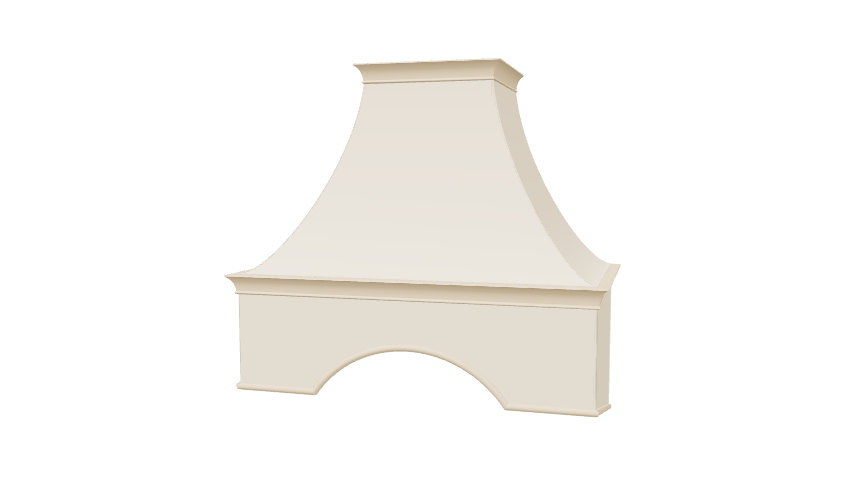
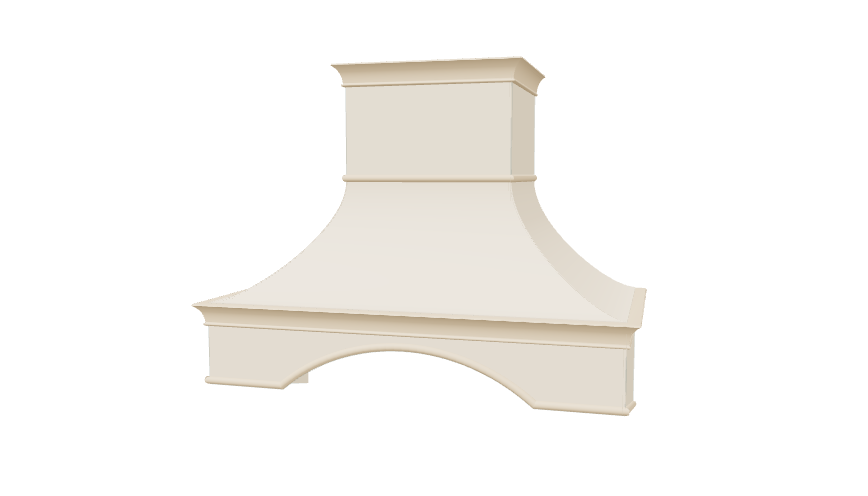
Match homepage 3D thumbnails to case photos

Changed region(s): [[0.2177, 0.3024, 0.7465, 0.8468], [0.3733, 0.0907, 0.6221, 0.3024]]

diff --git a/app.js b/app.js
@@ -1,5 +1,5 @@
 /* © 2026 栗子的家 · 定制装饰罩 | All rights reserved. */
-const w={basePrice:480,trimPrices:{none:0,single:35,corner:45},wechatId:"Jonathan_Ge",qrImage:"assets/pay-qr.jpg",serviceQrImage:"assets/service-qr.jpg",orderEndpoint:location.hostname.endsWith("github.io")?"https://yyj-h5-d5gaovp196680d93f-1258663924.ap-shanghai.app.tcloudbase.com/api/orders":"/api/orders",orderLookupEndpoint:""},ne="./preview.js?v=2e9b7c4bbb",N=[{id:"cloud",name:"\u4E91\u6735\u5F27",tone:"\u6696\u7C73",desc:"\u949F\u5F62\u5F27\u7EBF \xB7 \u5BBD\u5E95\u6536\u8FB9",curve:"concave",start:"middle",dims:{hoodWidth:1e3,hoodDepth:500,rearHeight:390,frontHeight:255,chimneyWidth:500,chimneyDepth:330,chimneyHeight:680},trims:{top:"corner",start:"single",hoodTop:"corner",hoodBottom:"single"},notch:{shape:"rounded",width:300,height:60,offset:0}},{id:"tall",name:"\u9AD8\u7A84\u5F27",tone:"\u6696\u7C73",desc:"\u9AD8\u7A84\u957F\u5F27 \xB7 \u62F1\u5F62\u5F00\u53E3",curve:"concave",start:"top",dims:{hoodWidth:800,hoodDepth:470,rearHeight:380,frontHeight:260,chimneyWidth:280,chimneyDepth:300,chimneyHeight:500},trims:{top:"corner",start:"none",hoodTop:"single",hoodBottom:"single"},notch:{shape:"arch",width:340,height:90,offset:0}},{id:"line",name:"\u76F4\u8FB9\u5854",tone:"\u6696\u7C73",desc:"\u76F4\u8FB9\u659C\u6536 \xB7 \u65B9\u51A0\u538B\u9876",curve:"flat",start:"middle",dims:{hoodWidth:940,hoodDepth:500,rearHeight:330,frontHeight:220,chimneyWidth:480,chimneyDepth:330,chimneyHeight:620},trims:{top:"corner",start:"single",hoodTop:"single",hoodBottom:"single"},notch:{shape:"trapezoid",width:340,height:60,offset:0}},{id:"arch",name:"\u5706\u9876\u62F1",tone:"\u6696\u7C73",desc:"\u957F\u5F27\u5916\u6269 \xB7 \u5927\u5706\u62F1\u53E3",curve:"concave",start:"top",dims:{hoodWidth:840,hoodDepth:480,rearHeight:400,frontHeight:280,chimneyWidth:300,chimneyDepth:310,chimneyHeight:520},trims:{top:"corner",start:"none",hoodTop:"corner",hoodBottom:"single"},notch:{shape:"arch",width:460,height:120,offset:0}},{id:"crown",name:"\u5BBD\u65B9\u51A0",tone:"\u6696\u7C73",desc:"\u5BBD\u80A9\u76F4\u8FB9 \xB7 \u9636\u68AF\u65B9\u51A0",curve:"flat",start:"middle",dims:{hoodWidth:1e3,hoodDepth:510,rearHeight:390,frontHeight:260,chimneyWidth:440,chimneyDepth:330,chimneyHeight:560},trims:{top:"corner",start:"none",hoodTop:"corner",hoodBottom:"single"},notch:{shape:"trapezoid",width:320,height:90,offset:0}},{id:"float",name:"\u6781\u7B80\u65B9\u76D2",tone:"\u6696\u7C73",desc:"\u65B9\u76D2\u76F4\u8FB9 \xB7 \u65E0\u5F27\u4FA7\u9762",curve:"none",start:"middle",dims:{hoodWidth:1e3,hoodDepth:500,rearHeight:300,frontHeight:220,chimneyWidth:600,chimneyDepth:380,chimneyHeight:680},trims:{top:"corner",start:"none",hoodTop:"single",hoodBottom:"single"},notch:{enabled:!1,shape:"rect",width:260,height:50,offset:90}}],$=[{styleId:"cloud",name:"\u4E91\u6735\u5F27",image:"assets/styles/cloud.jpg",model:"assets/models/cloud.png",fit:"cover"},{styleId:"line",name:"\u76F4\u8FB9\u5854",image:"assets/styles/line.jpg",model:"assets/models/line.png",fit:"cover"},{styleId:"tall",name:"\u9AD8\u7A84\u5F27",image:"assets/styles/tall.jpg",model:"assets/models/tall.png",fit:"cover"},{styleId:"arch",name:"\u5706\u9876\u62F1",image:"assets/styles/arch.jpg",model:"assets/models/arch.png",fit:"cover"},{styleId:"crown",name:"\u5BBD\u65B9\u51A0",image:"assets/styles/crown.jpg",model:"assets/models/crown.png",fit:"cover"},{styleId:"float",name:"\u6781\u7B80\u65B9\u76D2",image:"assets/styles/float.jpg",model:"assets/models/float.png",fit:"cover"}];let zt="";async function Pn(){try{const t=new AbortController,e=window.setTimeout(()=>t.abort(),1500),n=await fetch(`content.json?v=${Date.now()}`,{cache:"no-store",signal:t.signal});if(clearTimeout(e),!n.ok)return;const i=await n.json();if(i&&i.wechatId&&(w.wechatId=String(i.wechatId)),i&&i.qrImage&&(w.qrImage=String(i.qrImage)),i&&i.serviceQrImage&&(w.serviceQrImage=String(i.serviceQrImage)),i&&Number.isFinite(Number(i.basePrice))&&(w.basePrice=Number(i.basePrice)),i&&typeof i.orderLookupEndpoint=="string"&&(w.orderLookupEndpoint=i.orderLookupEndpoint),i&&i.trimPrices&&typeof i.trimPrices=="object"&&Object.keys(w.trimPrices).forEach(r=>{Number.isFinite(Number(i.trimPrices[r]))&&(w.trimPrices[r]=Number(i.trimPrices[r]))}),i&&Array.isArray(i.cases)&&i.cases.length){const r=i.cases.filter(o=>o&&o.styleId&&o.image).map(o=>({styleId:String(o.styleId),name:String(o.name||""),image:String(o.image),model:o.model?String(o.model):"",fit:o.fit==="cover"?"cover":"contain"}));r.length&&($.length=0,$.push(...r))}i&&i.home3dImage&&(zt=String(i.home3dImage))}catch{}}const V=[{id:"none",name:"\u65E0\u88C5\u9970\u6761",desc:"\u5E72\u51C0\u5229\u843D",price:0},{id:"single",name:"\u534A\u5706\u7EBF\u6761",desc:"\u534A\u5706\u7EC6\u8FB9",price:35},{id:"corner",name:"\u9876\u89D2\u6761",desc:"\u76F4\u89D2\u6536\u8FB9",price:45}],ht=[{key:"top",name:"\u70DF\u9053\u9876\u90E8",hint:"\u70DF\u9053\u6700\u4E0A\u65B9\u4E00\u5708"},{key:"start",name:"\u66F2\u9762\u8D77\u70B9",hint:"\u4E0A\u7AD6\u4E0E\u66F2\u9762\u7684\u63A5\u7F1D"},{key:"hoodTop",name:"\u4E0B\u6A2A\u9876\u8FB9",hint:"\u4E0B\u6A2A\u4E0A\u6CBF"},{key:"hoodBottom",name:"\u4E0B\u6A2A\u5E95\u8FB9",hint:"\u4E0B\u6A2A\u4E0B\u6CBF"}],H={chimneyWidth:{label:"\u70DF\u9053\u5BBD",hint:"\u5DE6\u53F3\u5404\u7559 5mm",min:220,max:600,step:10},chimneyDepth:{label:"\u70DF\u9053\u6DF1",hint:"\u4ECE\u5899\u5230\u524D\u5916\u6CBF",min:180,max:500,step:10},chimneyHeight:{label:"\u4E0A\u7AD6\u9AD8",hint:"\u4E0B\u6A2A\u4EE5\u4E0A",min:300,max:1e3,step:10},hoodWidth:{label:"\u70DF\u673A\u5BBD",hint:"\u91CF\u6700\u5916\u6CBF",min:600,max:1100,step:10},hoodDepth:{label:"\u70DF\u673A\u6DF1",hint:"\u4ECE\u5899\u5230\u6700\u5916\u6CBF",min:350,max:650,step:10},rearHeight:{label:"\u9760\u5899\u4FA7\u9AD8",hint:"\u8D34\u5899\u90A3\u4E00\u4FA7",min:220,max:520,step:10},frontHeight:{label:"\u524D\u4FA7\u9AD8",hint:"\u671D\u5916\u8FD9\u4E00\u4FA7",min:120,max:520,step:10},notchWidth:{label:"\u5F00\u53E3\u5BBD",hint:"\u8C41\u53E3\u5DE6\u53F3\u5BBD\u5EA6",min:120,max:620,step:10},notchHeight:{label:"\u5F00\u53E3\u9AD8",hint:"\u4ECE\u5E95\u8FB9\u5F80\u4E0A",min:30,max:220,step:10}},Ae=[{id:"rect",label:"\u77E9\u5F62"},{id:"rounded",label:"\u5706\u89D2\u77E9\u5F62"},{id:"arch",label:"\u5706\u5F27"},{id:"trapezoid",label:"\u68AF\u5F62"}],Ne={chimneyWidth:"front",chimneyDepth:"side",chimneyHeight:"chimneyHeight",hoodWidth:"hoodWidth",hoodDepth:"hoodDepth",rearHeight:"rearHeight",frontHeight:"frontHeight",notchWidth:"notch",notchHeight:"notch"},O={styleId:"cloud",hoodWidth:800,hoodDepth:450,rearHeight:380,frontHeight:240,chimneyWidth:320,chimneyDepth:280,chimneyHeight:500,shimHeight:0,surfaceType:"concave",surfaceStart:"middle",notchEnabled:!0,notchShape:"arch",notchWidth:420,notchHeight:80,notchOffset:0,trimStyles:{top:"corner",start:"single",hoodTop:"single",hoodBottom:"single"}},Fe=[{id:"concave",label:"\u5411\u5185\u5F2F\u66F2"},{id:"convex",label:"\u5411\u5916\u5F2F\u66F2"},{id:"flat",label:"\u4E0D\u5F2F\u66F2"},{id:"none",label:"\u65E0\u4FA7\u9762"}];function ie(t){return t==="none"?[{id:"middle",label:"\u4E2D\u95F4"}]:t==="convex"?[{id:"lower",label:"\u4E2D\u95F4\u504F\u4E0B"},{id:"lowest",label:"\u4E2D\u95F4\u66F4\u504F\u4E0B"}]:t==="flat"?[{id:"middle",label:"\u4E2D\u95F4"},{id:"top",label:"\u9876\u90E8"}]:[{id:"middle",label:"\u4E2D\u95F4"},{id:"top",label:"\u4E0A\u9762"}]}function Wn(t=a.surfaceType,e=a.surfaceStart){return e==="lowest"?"\u4E2D\u95F4\u66F4\u504F\u4E0B":e==="lower"?"\u4E2D\u95F4\u504F\u4E0B":e==="top"?t==="flat"?"\u9876\u90E8":"\u4E0A\u9762":"\u4E2D\u95F4"}const F={customer:"yyj_customer",orders:"yyj_orders",pending:"yyj_pending_orders",lastOrder:"yyj_last_order",pendingOrder:"yyj_pending_order"},s=(t,e=document)=>e.querySelector(t),T=(t,e=document)=>Array.from(e.querySelectorAll(t)),S=(t,e,n)=>Math.min(n,Math.max(e,Number(t)||0)),L=t=>`\xA5${Number(t).toLocaleString("zh-CN")}`,x=t=>String(t??"").replace(/[&<>"']/g,e=>({"&":"&amp;","<":"&lt;",">":"&gt;",'"':"&quot;","'":"&#39;"})[e]);function re(t,e){try{const n=localStorage.getItem(t);return n?JSON.parse(n):e}catch{return e}}function ut(t,e){try{localStorage.setItem(t,JSON.stringify(e))}catch{}}function ar(t){try{localStorage.removeItem(t)}catch{}}let An=0;function xt(t,e){const n=parseInt(t.slice(1),16),i=n>>16&255,r=n>>8&255,o=n&255,d=e<0?0:255,c=Math.abs(e)/100,u=m=>Math.round((d-m)*c+m).toString(16).padStart(2,"0");return`#${u(i)}${u(r)}${u(o)}`}const Nn={concave:{l1:[132,140],l2:[86,150],r1:[234,150],r2:[188,140]},convex:{l1:[116,124],l2:[52,136],r1:[268,136],r2:[204,124]}};function je(t,{transparent:e=!1}={}){const n=`hood${++An}`,i=t.color,r=t.bg,o=xt(i,14),d=xt(i,-10),c=xt(i,-25),u="#d8be9e",m=Nn[t.curve];let h,g;if(t.curve==="flat")h="M132 112 L52 150 H268 L188 112 Z",g="M188 112 L268 150 L288 142 L204 103 Z";else{const{l1:f,l2:b,r1:v,r2:k}=m;h=`M132 112 C${f[0]} ${f[1]} ${b[0]} ${b[1]} 52 150 H268 C${v[0]} ${v[1]} ${k[0]} ${k[1]} 188 112 Z`,g=`M188 112 C${k[0]} ${k[1]} ${v[0]} ${v[1]} 268 150 L288 142 C${v[0]-18} ${v[1]-8} ${k[0]+8} ${k[1]-8} 204 103 Z`}const y=["M132 38 H188 L204 31","M132 112 H188","M52 150 H268 L288 142","M52 196 H268 L288 188"];let p="";if(t.trim==="single"||t.trim==="corner"){const f=t.trim==="corner"?6:4;p=y.map(b=>`<path d="${b}" fill="none" stroke="${u}" stroke-width="${f}" stroke-linecap="round" stroke-linejoin="round"/>`).join(""),t.trim==="corner"&&(p+=y.map(b=>`<path d="${b}" fill="none" stroke="#c9b08d" stroke-width="1.3" opacity=".3"/>`).join(""))}else t.trim==="double"&&(p=y.map(f=>`<path d="${f}" fill="none" stroke="${u}" stroke-width="2.4" stroke-linecap="round" stroke-linejoin="round"/>`).join(""),p+=y.map(f=>`<path d="${f}" transform="translate(0 5)" fill="none" stroke="${u}" stroke-width="2.4" stroke-linecap="round" stroke-linejoin="round"/>`).join(""));return`<svg viewBox="0 0 320 240" role="img" aria-label="${x(t.name)}${x(t.tone)}\u70DF\u673A\u7F69\u793A\u610F">
+const w={basePrice:480,trimPrices:{none:0,single:35,corner:45},wechatId:"Jonathan_Ge",qrImage:"assets/pay-qr.jpg",serviceQrImage:"assets/service-qr.jpg",orderEndpoint:location.hostname.endsWith("github.io")?"https://yyj-h5-d5gaovp196680d93f-1258663924.ap-shanghai.app.tcloudbase.com/api/orders":"/api/orders",orderLookupEndpoint:""},ne="./preview.js?v=2e9b7c4bbb",N=[{id:"cloud",name:"\u4E91\u6735\u5F27",tone:"\u6696\u7C73",desc:"\u949F\u5F62\u5F27\u7EBF \xB7 \u5BBD\u5E95\u6536\u8FB9",curve:"concave",start:"middle",dims:{hoodWidth:1e3,hoodDepth:500,rearHeight:335,frontHeight:200,chimneyWidth:430,chimneyDepth:330,chimneyHeight:790},trims:{top:"corner",start:"single",hoodTop:"corner",hoodBottom:"single"},notch:{shape:"rounded",width:300,height:60,offset:0}},{id:"tall",name:"\u9AD8\u7A84\u5F27",tone:"\u6696\u7C73",desc:"\u9AD8\u7A84\u957F\u5F27 \xB7 \u62F1\u5F62\u5F00\u53E3",curve:"concave",start:"middle",dims:{hoodWidth:800,hoodDepth:470,rearHeight:264,frontHeight:144,chimneyWidth:325,chimneyDepth:300,chimneyHeight:608},trims:{top:"corner",start:"single",hoodTop:"corner",hoodBottom:"single"},notch:{shape:"arch",width:340,height:95,offset:0}},{id:"line",name:"\u76F4\u8FB9\u5854",tone:"\u6696\u7C73",desc:"\u76F4\u8FB9\u659C\u6536 \xB7 \u65B9\u51A0\u538B\u9876",curve:"flat",start:"middle",dims:{hoodWidth:940,hoodDepth:500,rearHeight:360,frontHeight:250,chimneyWidth:460,chimneyDepth:330,chimneyHeight:634},trims:{top:"corner",start:"single",hoodTop:"corner",hoodBottom:"single"},notch:{shape:"trapezoid",width:420,height:60,offset:0}},{id:"arch",name:"\u5706\u9876\u62F1",tone:"\u6696\u7C73",desc:"\u957F\u5F27\u5916\u6269 \xB7 \u5927\u5706\u62F1\u53E3",curve:"concave",start:"middle",dims:{hoodWidth:840,hoodDepth:480,rearHeight:288,frontHeight:168,chimneyWidth:345,chimneyDepth:310,chimneyHeight:512},trims:{top:"corner",start:"single",hoodTop:"corner",hoodBottom:"single"},notch:{shape:"arch",width:520,height:95,offset:0}},{id:"crown",name:"\u5BBD\u65B9\u51A0",tone:"\u6696\u7C73",desc:"\u5BBD\u80A9\u76F4\u8FB9 \xB7 \u9636\u68AF\u65B9\u51A0",curve:"flat",start:"middle",dims:{hoodWidth:1e3,hoodDepth:510,rearHeight:290,frontHeight:160,chimneyWidth:520,chimneyDepth:330,chimneyHeight:700},trims:{top:"corner",start:"single",hoodTop:"corner",hoodBottom:"single"},notch:{shape:"trapezoid",width:430,height:65,offset:0}},{id:"float",name:"\u6781\u7B80\u65B9\u76D2",tone:"\u6696\u7C73",desc:"\u65B9\u76D2\u76F4\u8FB9 \xB7 \u65E0\u5F27\u4FA7\u9762",curve:"none",start:"middle",dims:{hoodWidth:1e3,hoodDepth:500,rearHeight:280,frontHeight:200,chimneyWidth:780,chimneyDepth:380,chimneyHeight:690},trims:{top:"corner",start:"none",hoodTop:"single",hoodBottom:"single"},notch:{enabled:!1,shape:"rect",width:260,height:50,offset:90}}],$=[{styleId:"cloud",name:"\u4E91\u6735\u5F27",image:"assets/styles/cloud.jpg",model:"assets/models/cloud.png",fit:"cover"},{styleId:"line",name:"\u76F4\u8FB9\u5854",image:"assets/styles/line.jpg",model:"assets/models/line.png",fit:"cover"},{styleId:"tall",name:"\u9AD8\u7A84\u5F27",image:"assets/styles/tall.jpg",model:"assets/models/tall.png",fit:"cover"},{styleId:"arch",name:"\u5706\u9876\u62F1",image:"assets/styles/arch.jpg",model:"assets/models/arch.png",fit:"cover"},{styleId:"crown",name:"\u5BBD\u65B9\u51A0",image:"assets/styles/crown.jpg",model:"assets/models/crown.png",fit:"cover"},{styleId:"float",name:"\u6781\u7B80\u65B9\u76D2",image:"assets/styles/float.jpg",model:"assets/models/float.png",fit:"cover"}];let zt="";async function Pn(){try{const t=new AbortController,e=window.setTimeout(()=>t.abort(),1500),n=await fetch(`content.json?v=${Date.now()}`,{cache:"no-store",signal:t.signal});if(clearTimeout(e),!n.ok)return;const i=await n.json();if(i&&i.wechatId&&(w.wechatId=String(i.wechatId)),i&&i.qrImage&&(w.qrImage=String(i.qrImage)),i&&i.serviceQrImage&&(w.serviceQrImage=String(i.serviceQrImage)),i&&Number.isFinite(Number(i.basePrice))&&(w.basePrice=Number(i.basePrice)),i&&typeof i.orderLookupEndpoint=="string"&&(w.orderLookupEndpoint=i.orderLookupEndpoint),i&&i.trimPrices&&typeof i.trimPrices=="object"&&Object.keys(w.trimPrices).forEach(r=>{Number.isFinite(Number(i.trimPrices[r]))&&(w.trimPrices[r]=Number(i.trimPrices[r]))}),i&&Array.isArray(i.cases)&&i.cases.length){const r=i.cases.filter(o=>o&&o.styleId&&o.image).map(o=>({styleId:String(o.styleId),name:String(o.name||""),image:String(o.image),model:o.model?String(o.model):"",fit:o.fit==="cover"?"cover":"contain"}));r.length&&($.length=0,$.push(...r))}i&&i.home3dImage&&(zt=String(i.home3dImage))}catch{}}const V=[{id:"none",name:"\u65E0\u88C5\u9970\u6761",desc:"\u5E72\u51C0\u5229\u843D",price:0},{id:"single",name:"\u534A\u5706\u7EBF\u6761",desc:"\u534A\u5706\u7EC6\u8FB9",price:35},{id:"corner",name:"\u9876\u89D2\u6761",desc:"\u76F4\u89D2\u6536\u8FB9",price:45}],ht=[{key:"top",name:"\u70DF\u9053\u9876\u90E8",hint:"\u70DF\u9053\u6700\u4E0A\u65B9\u4E00\u5708"},{key:"start",name:"\u66F2\u9762\u8D77\u70B9",hint:"\u4E0A\u7AD6\u4E0E\u66F2\u9762\u7684\u63A5\u7F1D"},{key:"hoodTop",name:"\u4E0B\u6A2A\u9876\u8FB9",hint:"\u4E0B\u6A2A\u4E0A\u6CBF"},{key:"hoodBottom",name:"\u4E0B\u6A2A\u5E95\u8FB9",hint:"\u4E0B\u6A2A\u4E0B\u6CBF"}],H={chimneyWidth:{label:"\u70DF\u9053\u5BBD",hint:"\u5DE6\u53F3\u5404\u7559 5mm",min:220,max:600,step:10},chimneyDepth:{label:"\u70DF\u9053\u6DF1",hint:"\u4ECE\u5899\u5230\u524D\u5916\u6CBF",min:180,max:500,step:10},chimneyHeight:{label:"\u4E0A\u7AD6\u9AD8",hint:"\u4E0B\u6A2A\u4EE5\u4E0A",min:300,max:1e3,step:10},hoodWidth:{label:"\u70DF\u673A\u5BBD",hint:"\u91CF\u6700\u5916\u6CBF",min:600,max:1100,step:10},hoodDepth:{label:"\u70DF\u673A\u6DF1",hint:"\u4ECE\u5899\u5230\u6700\u5916\u6CBF",min:350,max:650,step:10},rearHeight:{label:"\u9760\u5899\u4FA7\u9AD8",hint:"\u8D34\u5899\u90A3\u4E00\u4FA7",min:220,max:520,step:10},frontHeight:{label:"\u524D\u4FA7\u9AD8",hint:"\u671D\u5916\u8FD9\u4E00\u4FA7",min:120,max:520,step:10},notchWidth:{label:"\u5F00\u53E3\u5BBD",hint:"\u8C41\u53E3\u5DE6\u53F3\u5BBD\u5EA6",min:120,max:620,step:10},notchHeight:{label:"\u5F00\u53E3\u9AD8",hint:"\u4ECE\u5E95\u8FB9\u5F80\u4E0A",min:30,max:220,step:10}},Ae=[{id:"rect",label:"\u77E9\u5F62"},{id:"rounded",label:"\u5706\u89D2\u77E9\u5F62"},{id:"arch",label:"\u5706\u5F27"},{id:"trapezoid",label:"\u68AF\u5F62"}],Ne={chimneyWidth:"front",chimneyDepth:"side",chimneyHeight:"chimneyHeight",hoodWidth:"hoodWidth",hoodDepth:"hoodDepth",rearHeight:"rearHeight",frontHeight:"frontHeight",notchWidth:"notch",notchHeight:"notch"},O={styleId:"cloud",hoodWidth:800,hoodDepth:450,rearHeight:380,frontHeight:240,chimneyWidth:320,chimneyDepth:280,chimneyHeight:500,shimHeight:0,surfaceType:"concave",surfaceStart:"middle",notchEnabled:!0,notchShape:"arch",notchWidth:420,notchHeight:80,notchOffset:0,trimStyles:{top:"corner",start:"single",hoodTop:"single",hoodBottom:"single"}},Fe=[{id:"concave",label:"\u5411\u5185\u5F2F\u66F2"},{id:"convex",label:"\u5411\u5916\u5F2F\u66F2"},{id:"flat",label:"\u4E0D\u5F2F\u66F2"},{id:"none",label:"\u65E0\u4FA7\u9762"}];function ie(t){return t==="none"?[{id:"middle",label:"\u4E2D\u95F4"}]:t==="convex"?[{id:"lower",label:"\u4E2D\u95F4\u504F\u4E0B"},{id:"lowest",label:"\u4E2D\u95F4\u66F4\u504F\u4E0B"}]:t==="flat"?[{id:"middle",label:"\u4E2D\u95F4"},{id:"top",label:"\u9876\u90E8"}]:[{id:"middle",label:"\u4E2D\u95F4"},{id:"top",label:"\u4E0A\u9762"}]}function Wn(t=a.surfaceType,e=a.surfaceStart){return e==="lowest"?"\u4E2D\u95F4\u66F4\u504F\u4E0B":e==="lower"?"\u4E2D\u95F4\u504F\u4E0B":e==="top"?t==="flat"?"\u9876\u90E8":"\u4E0A\u9762":"\u4E2D\u95F4"}const F={customer:"yyj_customer",orders:"yyj_orders",pending:"yyj_pending_orders",lastOrder:"yyj_last_order",pendingOrder:"yyj_pending_order"},s=(t,e=document)=>e.querySelector(t),T=(t,e=document)=>Array.from(e.querySelectorAll(t)),S=(t,e,n)=>Math.min(n,Math.max(e,Number(t)||0)),L=t=>`\xA5${Number(t).toLocaleString("zh-CN")}`,x=t=>String(t??"").replace(/[&<>"']/g,e=>({"&":"&amp;","<":"&lt;",">":"&gt;",'"':"&quot;","'":"&#39;"})[e]);function re(t,e){try{const n=localStorage.getItem(t);return n?JSON.parse(n):e}catch{return e}}function ut(t,e){try{localStorage.setItem(t,JSON.stringify(e))}catch{}}function ar(t){try{localStorage.removeItem(t)}catch{}}let An=0;function xt(t,e){const n=parseInt(t.slice(1),16),i=n>>16&255,r=n>>8&255,o=n&255,d=e<0?0:255,c=Math.abs(e)/100,u=m=>Math.round((d-m)*c+m).toString(16).padStart(2,"0");return`#${u(i)}${u(r)}${u(o)}`}const Nn={concave:{l1:[132,140],l2:[86,150],r1:[234,150],r2:[188,140]},convex:{l1:[116,124],l2:[52,136],r1:[268,136],r2:[204,124]}};function je(t,{transparent:e=!1}={}){const n=`hood${++An}`,i=t.color,r=t.bg,o=xt(i,14),d=xt(i,-10),c=xt(i,-25),u="#d8be9e",m=Nn[t.curve];let h,g;if(t.curve==="flat")h="M132 112 L52 150 H268 L188 112 Z",g="M188 112 L268 150 L288 142 L204 103 Z";else{const{l1:f,l2:b,r1:v,r2:k}=m;h=`M132 112 C${f[0]} ${f[1]} ${b[0]} ${b[1]} 52 150 H268 C${v[0]} ${v[1]} ${k[0]} ${k[1]} 188 112 Z`,g=`M188 112 C${k[0]} ${k[1]} ${v[0]} ${v[1]} 268 150 L288 142 C${v[0]-18} ${v[1]-8} ${k[0]+8} ${k[1]-8} 204 103 Z`}const y=["M132 38 H188 L204 31","M132 112 H188","M52 150 H268 L288 142","M52 196 H268 L288 188"];let p="";if(t.trim==="single"||t.trim==="corner"){const f=t.trim==="corner"?6:4;p=y.map(b=>`<path d="${b}" fill="none" stroke="${u}" stroke-width="${f}" stroke-linecap="round" stroke-linejoin="round"/>`).join(""),t.trim==="corner"&&(p+=y.map(b=>`<path d="${b}" fill="none" stroke="#c9b08d" stroke-width="1.3" opacity=".3"/>`).join(""))}else t.trim==="double"&&(p=y.map(f=>`<path d="${f}" fill="none" stroke="${u}" stroke-width="2.4" stroke-linecap="round" stroke-linejoin="round"/>`).join(""),p+=y.map(f=>`<path d="${f}" transform="translate(0 5)" fill="none" stroke="${u}" stroke-width="2.4" stroke-linecap="round" stroke-linejoin="round"/>`).join(""));return`<svg viewBox="0 0 320 240" role="img" aria-label="${x(t.name)}${x(t.tone)}\u70DF\u673A\u7F69\u793A\u610F">
     <defs>
       <linearGradient id="${n}bg" x1="0" y1="0" x2="0" y2="1">
         <stop offset="0" stop-color="${xt(r,10)}"/><stop offset="1" stop-color="${r}"/>

diff --git a/index.html b/index.html
@@ -207,6 +207,6 @@
           <div id="sheetActions" class="sheet-actions"></div>
         </div>
       </div>
-    <script type="module" src="app.js?v=a6872e04ff"></script>
+    <script type="module" src="app.js?v=bf4176865f"></script>
   </body>
 </html>
